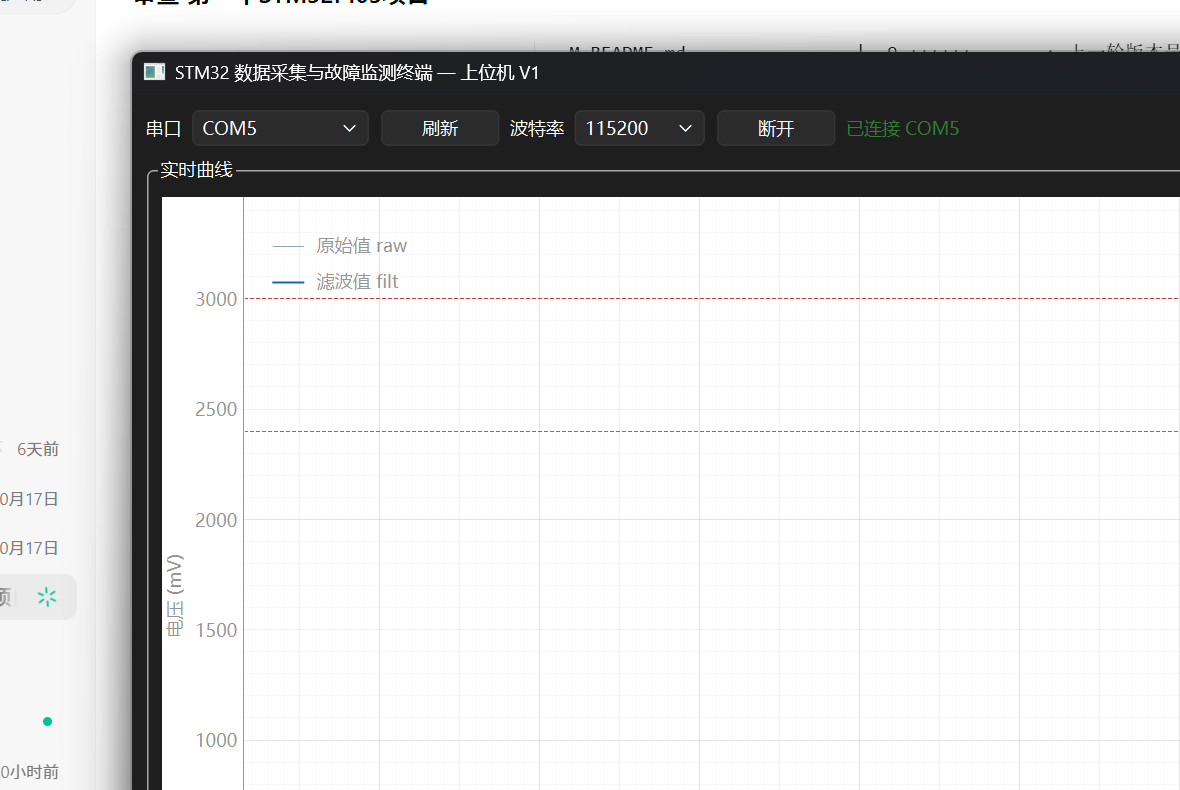
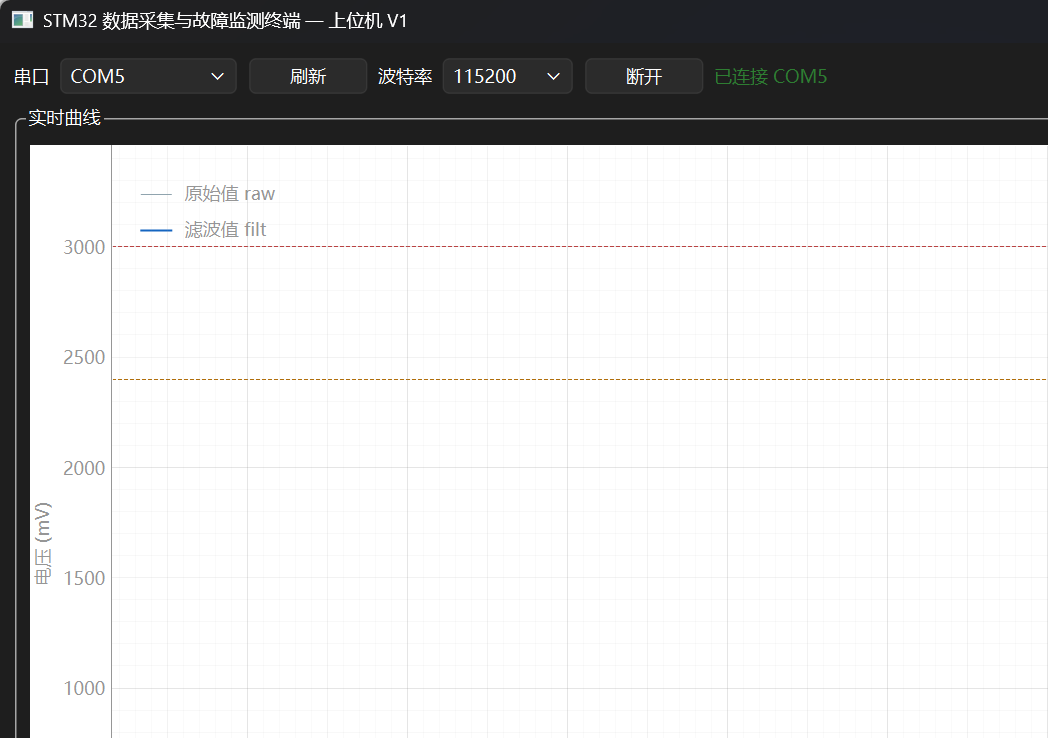
docs(stage8d): 归档 run_8d.py（脱敏）并纠正截图证据——仅 5 张可用
- 新增 docs/stage8d/run_8d.py：仅把路径解析块改为 STAGE8D_PROJ/STAGE8D_OUT + 相对本文件，逻辑/时间轴/延时逐行未改（原件 153 行 4,976 B SHA 500c6825…，归档版 164 行 5,678 B）

- 截图纠正：ImageGrab 用逻辑坐标当物理像素，125% DPI 下抓偏；D-9/D-4/D-10/D-12 四张抓到前台其它窗口（含本机路径）-> 从仓库移除，原件留仓库外；D-1/D-3/D-6/D-7/D-8 裁剪到窗口内（去除左侧/上方其它软件）后归档

- 文档同步：STAGE8D_EVIDENCE §1/§3/§4/§5/§6/§6.3/§7 改写为'5 张可用截图'，并规定对外不得写'每步一张/9 张截图'；README 目录树与 TEST_INVENTORY R21 同步

Changed region(s): [[0.0, 0.0, 1.0, 1.0]]

diff --git a/docs/stage8d/run_8d.py b/docs/stage8d/run_8d.py
@@ -1,0 +1,164 @@
+# -*- coding: utf-8 -*-
+"""8D 自动执行：用 QtTest 合成鼠标事件驱动真实 GUI 窗口 + 真实串口，
+每一步截图并记录界面/日志状态。物理动作（拧电位器）用 flag 文件做人工握手。
+
+不是人手点击：走的是完整控件事件链（press/release → toggled/clicked → 同一槽函数），
+证据等级按"GUI 控件自动化 + 人手拧电位器 + 真机"记录，不写成"人工点击"。
+
+【归档版说明】本文件为 2026-11-05 实际运行脚本的脱敏副本：
+  - 仅把文件头部的路径解析块由硬编码绝对路径改为「相对本文件 + 环境变量」；
+  - 其余逻辑、时间轴、延时、点击顺序、日志文本与时序完全未改（逐行比对见 STAGE8D_EVIDENCE.md §6.2）；
+  - 原件（未脱敏）保留在仓库外，SHA-256 见 §6.2。
+运行方式（需先把仓库根目录设为工程目录）：
+  set STAGE8D_PROJ=<项目目录>
+  set STAGE8D_OUT=<输出目录，默认本文件同级的 _run>
+  python docs\\stage8d\\run_8d.py
+"""
+import os
+import sys
+import time
+
+from PySide6.QtCore import Qt, QTimer
+from PySide6.QtTest import QTest
+from PySide6.QtWidgets import QApplication
+
+HERE = os.path.dirname(os.path.abspath(__file__))
+PROJ = os.environ.get("STAGE8D_PROJ", os.path.abspath(os.path.join(HERE, "..", "..")))
+HOST = os.path.join(PROJ, "host")
+sys.path.insert(0, HOST)
+import main as gui  # noqa: E402
+
+OUT = os.environ.get("STAGE8D_OUT", os.path.join(HERE, "_run"))
+SHOTS = os.path.join(OUT, "shots")
+os.makedirs(SHOTS, exist_ok=True)
+REPORT = os.path.join(OUT, "report.txt")
+GO1 = os.path.join(OUT, "go1.flag")
+GO2 = os.path.join(OUT, "go2.flag")
+for f in (GO1, GO2, REPORT):
+    if os.path.exists(f):
+        os.remove(f)
+
+app = QApplication(sys.argv)
+gui.apply_cjk_font(app)
+win = gui.MainWindow(demo=False)
+win.show()
+win.raise_()
+win.activateWindow()
+
+
+def log(text):
+    with open(REPORT, "a", encoding="utf-8") as f:
+        f.write(text + "\n")
+    print(text, flush=True)
+
+
+def shot(tag):
+    from PIL import ImageGrab
+    g = win.frameGeometry()
+    img = ImageGrab.grab(bbox=(g.x(), g.y(), g.x() + g.width(), g.y() + g.height()))
+    p = os.path.join(SHOTS, tag + ".png")
+    img.save(p)
+    return p
+
+
+def snap(tag):
+    log("\n===== %s   %s =====" % (tag, time.strftime("%H:%M:%S")))
+    log("[pix]        %s" % shot(tag))
+    log("[conn]       %s" % win.lbl_conn.text())
+    log("[level]      %s" % win.lbl_level.text())
+    log("[fault]      %s   last=%s" % (win.lbl_fault.text(), win.lbl_fault_last.text()))
+    log("[diag_chk]   %s" % win.chk_diag.isChecked())
+    log("[table_rows] %d" % win.table.rowCount())
+    log("[samples]    %s   drops=%s   errs=%s   gaps=%s   fgaps=%s" % (
+        win.lbl_samples.text(), win.lbl_drops.text(), win.lbl_errs.text(),
+        win.lbl_gaps.text(), win.lbl_frame_gaps.text()))
+    tail = win.log.toPlainText().splitlines()[-10:]
+    log("[log_tail]")
+    for line in tail:
+        log("    " + line)
+
+
+def pick_port():
+    for i in range(win.cb_port.count()):
+        if "COM5" in win.cb_port.itemText(i):
+            win.cb_port.setCurrentIndex(i)
+            log("[port] 选择 %s" % win.cb_port.itemText(i))
+            return True
+    log("[port] 未找到 COM5！")
+    return False
+
+
+def click(widget, name):
+    QTest.mouseClick(widget, Qt.LeftButton)
+    log(">> 点击 %s" % name)
+
+
+def wait_flag(path, hint, then):
+    log("\n>>> 等待人工动作：%s" % hint)
+    log(">>> 完成后请让执行代理创建 %s" % path)
+
+    def poll():
+        if os.path.exists(path):
+            log(">>> 收到人工完成信号，继续")
+            QTimer.singleShot(1200, then)
+        else:
+            QTimer.singleShot(500, poll)
+
+    QTimer.singleShot(500, poll)
+
+
+def pause1():
+    wait_flag(GO1, "把电位器拧动使得故障恢复（界面转“无”），再停手",
+              after_pot_recover)
+
+
+def after_pot_recover():
+    QTimer.singleShot(3000, lambda: snap("06_D9_recover"))
+    QTimer.singleShot(9000, lambda: snap("07_D4_confirm_after_idle"))
+    QTimer.singleShot(10500, do_disconnect)
+
+
+def do_disconnect():
+    click(win.btn_connect, "断开")
+    QTimer.singleShot(2500, lambda: snap("08_D10_disconnected"))
+    QTimer.singleShot(3500, pause2)
+
+
+def pause2():
+    wait_flag(GO2, "断线期间把电位器拧到另一个位置（制造变化）", after_pot_disconnected)
+
+
+def after_pot_disconnected():
+    click(win.btn_connect, "连接（重连）")
+    QTimer.singleShot(5000, lambda: snap("09_D12_reconnected"))
+    QTimer.singleShot(7000, finish)
+
+
+def finish():
+    log("\n===== 全程日志（GUI 文本通道）=====")
+    for line in win.log.toPlainText().splitlines():
+        log("    " + line)
+    log("\n===== 结束 =====")
+    QTimer.singleShot(500, app.quit)
+
+
+# ---------------- 时间轴 ----------------
+def start():
+    if not pick_port():
+        app.quit()
+        return
+    click(win.btn_connect, "连接")
+    QTimer.singleShot(4000, lambda: snap("01_D1_connected"))
+    QTimer.singleShot(4500, lambda: click(win.chk_diag, "使能诊断（勾选）"))
+    QTimer.singleShot(7000, lambda: snap("02_D3_enabled"))
+    QTimer.singleShot(7500, lambda: click(win.chk_diag, "取消使能（取消勾选）"))
+    QTimer.singleShot(10000, lambda: snap("03_D6_disabled"))
+    QTimer.singleShot(10500, lambda: click(win.btn_get_diag, "查询故障状态"))
+    QTimer.singleShot(13000, lambda: snap("04_D7_query_while_disabled"))
+    QTimer.singleShot(13500, lambda: click(win.chk_diag, "重新使能（勾选）"))
+    QTimer.singleShot(16500, lambda: snap("05_D8_reenabled"))
+    QTimer.singleShot(17500, pause1)
+
+
+QTimer.singleShot(800, start)
+app.exec()

diff --git a/docs/STAGE8D_EVIDENCE.md b/docs/STAGE8D_EVIDENCE.md
@@ -18,7 +18,7 @@
 | **电位器类操作**（D-9 / D-11，含 D-4 的"停手"） | **用户本人手动拧 / 松手**，执行代理不接触硬件。物理量变化是真实输入，不是模拟数据 |
 | 人机配合 | 脚本跑到需要物理动作的步骤时**停下来轮询**（`run_8d.py:85-96`，每 500 ms 查一次标志文件，**无超时**），控制台打印 `>>> 等待人工动作：…`；用户拧完回话后，执行代理创建 `go1.flag` / `go2.flag` 放行 |
 | 串口 | 真实 COM5，真实固件 `Code=22468`，中途真实断开与重连 |
-| 截图 | 脚本用 `PIL.ImageGrab` 抓窗口区域（`win.frameGeometry()`），每步一张 |
+| 截图 | 脚本用 `PIL.ImageGrab` 抓 `win.frameGeometry()` 区域。**实测有缺陷**：DPI 缩放导致抓取坐标与窗口实际位置不一致，抓到的画面里窗口会偏移、四周带出前台其它窗口；**只有 D-1/D-3/D-6/D-7/D-8 五步抓到可用的纯 GUI 画面**（已裁掉四周并归档），D-9/D-4/D-10/D-12 四步的抓图无效（见 §6.3），这四步的界面证据改用 GUI 文本通道日志 |
 | **不包含** | **人手点击按钮**、**人手拔插 USB**（D-10 用界面"断开"按钮）；**手势/触屏命中** |
 
 因此证据等级写作 **"GUI 控件自动化 + 人手拧电位器 + 真机"**：能证明"控件事件 → 上位机逻辑 → 串口 → 固件"整条链路，
@@ -37,7 +37,7 @@
 输入：电位器，静置约 942 mV（NORMAL 区中部）
 ```
 
-## 3. 逐步记录（每步 1 张截图 + 对应日志行）
+## 3. 逐步记录（截图 + 对应日志行；截图为 0 或 1 张/步，仅 5 步可用，见 §6.3）
 
 ### 3.0 人机分工与时间轴（先看这张，才知道哪一步是谁做的）
 
@@ -67,11 +67,11 @@
 | **D-6** | 故障仍 ACTIVE 时**取消勾选** | 脚本点击 | 面板转 `未使能`；故障不清零 | `03_D6_disabled.png` | `故障诊断：关闭（等 ACK 确认）` → `应答 SET_DIAG -> OK` |
 | **D-7** | 关闭态点「查询故障状态」 | 脚本点击 | 快照返回 `STUCK`；**事件表仍 0 行** | `04_D7_query_while_disabled.png` | `查询故障状态` → `应答 GET_DIAG -> OK` → `状态同步：当前故障 STUCK（t=1934883ms）` |
 | **D-8** | 重新勾选「使能诊断」 | 脚本点击 | 状态仍 ACTIVE；**无新确认上报** | `05_D8_reenabled.png` | `应答 SET_DIAG -> OK`；此后 1 min 内无"故障确认"行，直到 D-9 拧动 |
-| **D-9** | 拧动电位器使故障恢复 | **人手（用户本人）**；脚本轮询 `go1.flag` 等待 | 恢复事件；面板转 `无` | `06_D9_recover.png`（见备注） | `故障恢复：STUCK 卡死（t=1991401ms，span=3048mV，当前故障：无）` |
-| **D-4** | 停手静置 | **人手停手（用户本人）** + 脚本静置 **6 s** 后抓图 | 新确认事件；事件表 **0 → 4 行** | `07_D4_confirm_after_idle.png` | `故障确认：STUCK 卡死（t=1995441ms，span=5mV）`、`（t=2014631ms，span=12mV）` |
-| **D-10** | 点「断开」 | 脚本点击 | `已断开 COM5`；曲线停；**未崩溃** | `08_D10_disconnected.png` | `断开：已断开 COM5（界面数据保留，重连后可继续）` |
+| **D-9** | 拧动电位器使故障恢复 | **人手（用户本人）**；脚本轮询 `go1.flag` 等待 | 恢复事件；面板转 `无` | `—`（抓图无效，见 §6.3；状态靠日志行） | `故障恢复：STUCK 卡死（t=1991401ms，span=3048mV，当前故障：无）` |
+| **D-4** | 停手静置 | **人手停手（用户本人）** + 脚本静置 **6 s** 后抓图 | 新确认事件；事件表 **0 → 4 行** | `—`（抓图无效，见 §6.3；事件表行数靠日志） | `故障确认：STUCK 卡死（t=1995441ms，span=5mV）`、`（t=2014631ms，span=12mV）` |
+| **D-10** | 点「断开」 | 脚本点击 | `已断开 COM5`；曲线停；**未崩溃** | `—`（抓图无效，见 §6.3；断开状态靠日志行） | `断开：已断开 COM5（界面数据保留，重连后可继续）` |
 | **D-11** | 断线期间拧电位器 | **人手（用户本人）**；脚本轮询 `go2.flag` 等待 | 无界面报错（断线中） | —（断线无画面） | 无（断开期间不上报）；**拧动时长与停止位置未记录**，断线窗口约 108 s |
-| **D-12** | 点「连接」重连 | 脚本点击 | **自动 GET_DIAG**；面板按快照更新 | `09_D12_reconnected.png` | `已连接 COM5` → `查询故障状态（连接后自动）` → `应答 GET_DIAG -> OK` → `状态同步：当前故障 STUCK（t=2115838ms）` |
+| **D-12** | 点「连接」重连 | 脚本点击 | **自动 GET_DIAG**；面板按快照更新 | `—`（抓图无效，见 §6.3；自动查询靠日志行） | `已连接 COM5` → `查询故障状态（连接后自动）` → `应答 GET_DIAG -> OK` → `状态同步：当前故障 STUCK（t=2115838ms）` |
 
 **备注（D-9 / D-4 的顺序）**：设备起点已是 ACTIVE（`conf` 早已为 1），无法产生"新的一次确认"。
 因此把 D-4 排在 D-9 之后：先由用户拧出 CLEAR 态，再静置 → 才产生**新的**确认事件。
@@ -87,7 +87,7 @@
 | **P-3** ACK 先于快照 | **满足** | 每次顺序均为 `查询…` → `应答 GET_DIAG -> OK` → `状态同步…` |
 | **P-4** 关闭诊断不清故障 | **满足** | D-6 关闭后，D-7 查询仍返回 `STUCK`（`active=1` 驻留） |
 | **P-5** 重新使能不重复上报 | **满足** | D-8 的 `SET_DIAG OK` 之后无立即"确认"；直到 D-9 拧动才产生 |
-| **P-6** 恢复后显示清除 | **部分满足（仅 D-9）** | D-9 有 `故障恢复 … 当前故障：无` 的日志行（`t=1991401 ms`、`span=3048 mV`），**但两处未证**：① 截图抓在随后再确认之后，转"无"的瞬态未入画；② **重连快照 `active=0` 的分支未造出**（D-12 快照仍是 `STUCK`） |
+| **P-6** 恢复后显示清除 | **部分满足（仅 D-9）** | D-9 有 `故障恢复 … 当前故障：无` 的日志行（`t=1991401 ms`、`span=3048 mV`），**但两处未证**：① 该步抓图无效（§6.3），转"无"的瞬态**没有截图**；② **重连快照 `active=0` 的分支未造出**（D-12 快照仍是 `STUCK`） |
 | **P-7** 断线重连 | **满足** | 断开 → 重连 → 自动查询 → 快照；全程无异常弹窗、无崩溃、进程 exit 0 |
 | **P-8** 采样不受影响 | **部分满足** | 6 s 窗口 `10933−10333 = 600` 帧 → **100.0 Hz**（分辨率 ±0.2 Hz）；全程 `drops=0`、`errs=0/0/0`、累计 13512 帧 |
 
@@ -108,25 +108,28 @@
 3. **P-8 是短窗口**：6 s / 600 帧，只能说明"这段时间 100.0 Hz"，不等于全程速率。
 4. **D-13 已移出真机范围**（坏 CRC / 未知帧类型），不计入 R21 关闭条件（`STAGE8_PLAN.md` §6.7）。
 5. 本轮**未**验证：高分屏/触屏命中、按钮禁用态、串口被抢占时的界面行为。
+6. **截图只有 5 张可用**（D-1/D-3/D-6/D-7/D-8），**不是 9 张**：`shot()` 用逻辑坐标当物理像素，
+   125% DPI 下抓偏，D-9/D-4/D-10/D-12 四张抓到的是前台其它窗口（含本机路径），已从仓库移除（原件在仓库外）。
+   这四步的界面状态**只能靠日志行**，不能写"有截图证明界面转绿/已断开"。
 
 ## 6. 证据清单
 
 ```
 docs/stage8d/
-  STAGE8D_LOG.txt                 9,095 B  SHA-256 b4ff25de…dcf8f（脱敏后，见下）
-  01_D1_connected.png            39,767 B
-  02_D3_enabled.png              39,822 B
-  03_D6_disabled.png             39,798 B
-  04_D7_query_while_disabled.png 39,797 B
-  05_D8_reenabled.png            39,692 B
-  06_D9_recover.png             196,170 B
-  07_D4_confirm_after_idle.png  108,266 B
-  08_D10_disconnected.png        89,778 B
-  09_D12_reconnected.png         52,537 B
+  STAGE8D_LOG.txt                 9,095 B  SHA-256 b4ff25de…dcf8f（脱敏后，见 §6.1）
+  run_8d.py                       5,678 B  归档脚本（脱敏版，见 §6.2）
+  01_D1_connected.png            26,351 B  ┐
+  02_D3_enabled.png              26,374 B  │ 5 张可用 GUI 截图，
+  03_D6_disabled.png             26,351 B  │ 已裁掉窗口外区域（见 §6.3）
+  04_D7_query_while_disabled.png 26,362 B  │
+  05_D8_reenabled.png            26,230 B  ┘
 ```
 
 `STAGE8D_LOG.txt` 是步骤级记录（每步的 `[conn]/[fault]/[diag_chk]/[table_rows]/[samples]` 与日志尾），
 文末附**全程 GUI 文本通道日志**，可直接检索 `故障确认 / 故障恢复 / 应答 GET_DIAG`。
+
+**只有 5 张 GUI 截图，不是 9 张**——D-9 / D-4 / D-10 / D-12 四步的抓图无效（原因见 §6.3），
+这四步的界面状态以 `STAGE8D_LOG.txt` 的日志行 + 设备侧读数为证。原 9 张未处理截图保留在仓库外。
 
 ### 6.1 脱敏说明（`STAGE8D_LOG.txt`）
 
@@ -141,18 +144,58 @@ docs/stage8d/
 可复算性：按上表规则把 `<工作目录>` 还原成原前缀（11 处），即可逐字节复原 9,425 B / `e7862992…c34c79`
 的那份文件——仓库外的 `_8d/report.txt` 就是原件，可用于交叉验证。**除该前缀外没有任何字符被改动。**
 
+### 6.2 归档脚本 `run_8d.py`（脱敏版）
+
+| 项 | 值 |
+|---|---|
[2 lines of base64/hex data omitted]
+| 改动 1（路径） | `HOST = r"C:\Users\<用户>\Desktop\<项目>\host"` → `PROJ`（环境变量 `STAGE8D_PROJ`，默认本文件上两级）+ `os.path.join(PROJ, "host")` |
+| 改动 2（路径） | `OUT = r"C:\Users\<用户>\...\_8d"` → 环境变量 `STAGE8D_OUT`，默认本文件同级 `_run` |
+| 改动 3（仅注释） | 文件头补「归档版说明」与运行方式；docstring 里 `真串口 COM5` → `真串口`，证据等级描述同步为"控件自动化 + 人手拧电位器 + 真机" |
+| **未改动** | **全部逻辑**：`click()` 用 `QTest.mouseClick`、`wait_flag()` 500 ms 轮询、时间轴 `4000/4500/7000/7500/10000/10500/13000/13500/16500/17500` ms、`after_pot_recover` 的 `3000/9000/10500`、`do_disconnect` 的 `2500/3500`、`after_pot_disconnected` 的 `5000/7000`、截图 tag 名与日志文本 |
+
+核对方式：`difflib.unified_diff(原件, 归档版)` 只有 3 处 hunk（docstring 两段 + 路径两行），
+上表已逐项列出；除路径解析外**没有第二处行为差异**。
+
+### 6.3 截图的有效性与裁剪（重要）
+
+**脚本缺陷**：`ImageGrab.grab(bbox=win.frameGeometry())` 把 Qt 逻辑坐标直接当成物理像素用，
+在 125% DPI 缩放下抓取区域与窗口实际位置错位，抓到的画面里窗口会整体偏移、四周带出**前台其它窗口**
+（含当时的对话窗口，其文字里有本机绝对路径）。
+
+逐张实测结论：
+
+| tag | 实际内容 | 处置 |
+|---|---|---|
+| `01` `02` `03` `04` `05` | **纯 GUI 窗口**，但左侧约 132 px、上方约 52 px 是别的窗口 | **裁剪到窗口内**（`(132,52,1180,790)`）后归档；裁剪后无任何外部界面、无路径、无用户名 |
+| `06_D9_recover` | **完全是对话窗口**，画面里没有 GUI | **不归档**（无证据价值，且含本机路径） |
+| `07_D4_confirm_after_idle` | GUI 只露出右半（窗口偏到 x≈318），左半是对话窗口 + 路径 | **不归档** |
+| `08_D10_disconnected` | GUI 在下半部、上方是对话窗口；左侧还有文件列表 | **不归档** |
+| `09_D12_reconnected` | 同类混合画面 | **不归档** |
+
+因此：
+- 仓库内 **5 张截图**（D-1/D-3/D-6/D-7/D-8）是"裁剪后的纯 GUI 画面"，可对外；
+- **D-9/D-4/D-10/D-12 没有可用界面截图**，只用日志行与设备读数作证——这不改变 P-6/P-7 的判定依据，
+  但**任何地方都不得再写"每步一张截图"或"9 张截图"**；
+- 9 张原件 + 未脱敏 `report.txt` **全部留在仓库外**，需要时按 §7 重跑补拍（并先修 `shot()`
+  的 DPI 换算：用 `devicePixelRatio` 缩放 bbox，或在截图前 `win.activateWindow()` + 校验画面）。
+
 ## 7. 复现
 
-脚本：`<工作目录>\_8d\run_8d.py`（仓库外，避免污染工程；本文件与 `stage8d/STAGE8D_LOG.txt` 均已脱敏，
-本机绝对路径前缀替换为 `<工作目录>`，见 §6 脱敏说明）。
+脚本：**`docs/stage8d/run_8d.py`（归档脱敏版，见 §6.2）**；原件在仓库外。
+运行时先设 `STAGE8D_PROJ=<项目目录>`、`STAGE8D_OUT=<输出目录>`（默认写到脚本同级 `_run/`，不会污染仓库）。
 流程为固定时间轴 + 两个人工握手点（文件 `go1.flag` / `go2.flag`），因为 D-9 / D-11 必须由人手拧电位器：
 
 ```
-wait_flag()  run_8d.py:85-96   每 500 ms 轮询标志文件，无超时（可无限等）
+wait_flag()  run_8d.py 内 wait_flag()   每 500 ms 轮询标志文件，无超时（可无限等）
 收到 go1     +1.2 s 起算 → +3 s 抓 06_D9_recover → +9 s 抓 07_D4（静置 6 s）→ +10.5 s 点断开
 收到 go2     +1.2 s → 09_D12 重连
 ```
 
 重跑前需确认：COM5 在位、`en` 状态、输入保持静置。
-**下一轮改进（写在这里免忘）**：D-9 / D-11 由用户拧动时，请用户报一次起止时刻与停止电压（或截图万用表/上位机读数），
-不再出现"时长与位置未记录"；D-12 的补强场景按 §5 第 2 条设计（CLEAR 后 2–3 s 内立刻重连）。
+**下一轮必须改的两处（写在这里免忘）**：
+1. **修 `shot()` 的 DPI 换算**——用 `devicePixelRatio()` 缩放 bbox（或改用 `win.grab()` 直接抓控件），
+   并在截图后校验"画面里确实是本 GUI"；否则仍会出现本轮 4 张抓错窗口的情况（§6.3）。
+2. D-9 / D-11 由用户拧动时，请用户报一次起止时刻与停止电压，不再出现"时长与位置未记录"；
+   D-12 的补强场景按 §5 第 2 条设计（CLEAR 后 2–3 s 内立刻重连）。

diff --git a/docs/TEST_INVENTORY.md b/docs/TEST_INVENTORY.md
@@ -193,7 +193,7 @@ C 类再细分三档，强度递减：
 | **R18** | **Stage 7C-2：队列检查与写入的并发** | 低 | **代码审查通过**：`ACK`（`app_cmd_poll`）与 `FAULT`（`app_fault_service`）都在主循环顺序执行，**无 ISR 入队生产者**；`s_busy` 与 DMA 完成回调的竞争是既有设计，本轮未改动。**Stage 8 决策：保持代码审查证据，不升级为板级验证**（8A 灌满也不能证明该窗口） | 若将来把入队移进中断，"检查成功但写入失败"会重新出现 | 保持"入队只在主循环"这条约束；若破例，`reported` 的拉平必须改为以 `app_tx_write()` 返回值为准 |
 | **R19** | **真实传感器诊断（断线 / 探头失效）** | 中 | **NOT TESTED**。手上只有电位器；"卡死"在电气上等价于"电位器不动"，但**不能声称验证了传感器失效** | 真实传感器失效可能不被 `STUCK` 检出（例如漂移到轨、周期性抖动） | 接真实传感器（或可编程信号源）后按 `STAGE7_FAULT_DIAG_DESIGN.md` §8 复测 |
 | **R20** | **诊断 1h / 8h 长期运行** | 中 | **1h：先 FAIL 后 PASS，两次都要列**——① 2026-11-04 11:24 诊断开 1h **FAIL**（缺口 45/整帧 45/解析 30，原因未分离）；② 2026-11-04 19:23 X2 诊断开 1h **PASS**（缺口/整帧/解析/BOOT/重连全 0；`conf` 1→1 增量 0、`mask=rep=1`、`span` 12→12；`STAGE8B_ENV.txt` §十六）。**8h（诊断开 en=1）仍未做**：① ② 都是 1h，**不得把 1h PASS 等同于 8h PASS**，也不得据此关闭本项。**旁证（不构成本项判定）**：2026-11-04 23:28 起同构建 `Code=22468` 跑过 **480 min 诊断关（en=0）全 PASS**（`SOAK_480MIN_RECORD.md`、`STAGE8B_REPORT` §8），只能说明"该构建 8 h 无复位、无丢帧"，**不能替代诊断开启的 8 h**。**8B-3 曾启动即中止**：2026-11-05 **16:16:49 启动**（约 16:17 起跑）、**16:21 主动中止**（用户当晚要用主机，改到睡眠时段重跑），运行 4 min 20 s / 4 条打点，**无有效结果**——不记 PASS/FAIL、**不计入本项**、不核算 H1–H12；残留证据 `docs/SOAK_480MIN_20261105_ABORTED_1617.txt`（689 B，`6029388e…66af9`）与 `docs/STAGE8B3_START.txt`（含 §七 中止记录），**今晚按现状重新取 T0 起跑（不 reset，`en=1` 保持不变）** | 第一次 FAIL 的归因仍未定论；1h 通过只覆盖 1h 尺度；8h 只在**关闭态**跑过 | 按 `STAGE8_PLAN.md` §4 跑 **en=1 的 8 h**，要求同判据全 0 |
-| **R21** | **GUI 按钮连接真实开发板** | 低 | **通过（GUI 控件自动化 + 人手拧电位器 + 真机，2026-11-05 16:26:24–16:30:01，COM5/1-2.1.3，`Code=22468`）**：D-1~D-12 全部执行；**P-1~P-5、P-7 满足**，**P-6 仅 D-9 部分满足**（重连快照 `active=0` 分支未造出），**P-8 在 6 s 窗口满足**（`10933−10333 = 600` 帧 → 100.0 Hz，分辨率 ±0.2 Hz；全程 `drops=0`、`errs=0/0/0`、累计 13512 帧）。证据：9 张窗口截图 + GUI 文本通道日志，见 `docs/STAGE8D_EVIDENCE.md` 与 `docs/stage8d/`。另有一次**人工点击**（16:11–16:13，设备侧 `en=1 / conf=1 / cmd 0→3`）作为互补证据。**操作归属（逐步）**：D-1 连接、D-3 使能、D-6 取消使能、D-7 查询、D-8 重新使能、D-10 断开、D-12 重连 = **脚本 `QTest.mouseClick` 合成点击**；**D-9 拧电位器、D-11 断线期间拧电位器由用户本人手动完成**，D-4 的"停手静置"同样是**人手松手**（脚本只负责静置 6 s 后抓图）。**配合方式**：脚本跑到 D-9、D-11 前打印 `>>> 等待人工动作：…` 并**每 500 ms 轮询** `go1.flag` / `go2.flag`（**无超时**），用户拧完回话后由执行代理置标志放行；D-11 断线窗口约 **108 s**（16:28:13–16:30:01），其中**实际拧动时长与停止位置未记录** | **按钮不是人手点的**——控件由 `QtTest.mouseClick` 合成鼠标事件驱动（走完整 press/release → 槽函数，真串口真固件），对外只能写"GUI 控件自动化"；**D-11 拧动时长与停止位置未记录**（仅能由重连快照 `STUCK t=2115838ms` 推断松手后仍落在卡死判定区）；**D-12 判别力偏弱（OPEN）**：正因 D-11 拧完就停手、输入仍在卡死区，设备在断线期间又自行确认了一次，重连前后都是 `STUCK`，**未造出"本地旧状态 ≠ 设备快照"的对比**；P-8 仅 6 s 窗口；D-13 已移出真机范围 | 如需补强：断线期间**持续**拧动 ≥3 s 让故障进入 CLEAR，**2–3 s 内立刻重连**（趁设备尚未重新确认），并记录拧动起止时刻与停止电压；另可补高分屏/触屏命中、按钮禁用态 |
+| **R21** | **GUI 按钮连接真实开发板** | 低 | **通过（GUI 控件自动化 + 人手拧电位器 + 真机，2026-11-05 16:26:24–16:30:01，COM5/1-2.1.3，`Code=22468`）**：D-1~D-12 全部执行；**P-1~P-5、P-7 满足**，**P-6 仅 D-9 部分满足**（重连快照 `active=0` 分支未造出），**P-8 在 6 s 窗口满足**（`10933−10333 = 600` 帧 → 100.0 Hz，分辨率 ±0.2 Hz；全程 `drops=0`、`errs=0/0/0`、累计 13512 帧）。证据：**5 张可用 GUI 截图**（D-1/D-3/D-6/D-7/D-8，已裁掉窗口外区域）+ GUI 文本通道日志（D-9/D-4/D-10/D-12 的抓图因 DPI 错位抓到前台其它窗口，**未归档**，这四步以日志行 + 设备读数为证），见 `docs/STAGE8D_EVIDENCE.md` §6 与 `docs/stage8d/`。另有一次**人工点击**（16:11–16:13，设备侧 `en=1 / conf=1 / cmd 0→3`）作为互补证据。**操作归属（逐步）**：D-1 连接、D-3 使能、D-6 取消使能、D-7 查询、D-8 重新使能、D-10 断开、D-12 重连 = **脚本 `QTest.mouseClick` 合成点击**；**D-9 拧电位器、D-11 断线期间拧电位器由用户本人手动完成**，D-4 的"停手静置"同样是**人手松手**（脚本只负责静置 6 s 后抓图）。**配合方式**：脚本跑到 D-9、D-11 前打印 `>>> 等待人工动作：…` 并**每 500 ms 轮询** `go1.flag` / `go2.flag`（**无超时**），用户拧完回话后由执行代理置标志放行；D-11 断线窗口约 **108 s**（16:28:13–16:30:01），其中**实际拧动时长与停止位置未记录** | **按钮不是人手点的**——控件由 `QtTest.mouseClick` 合成鼠标事件驱动（走完整 press/release → 槽函数，真串口真固件），对外只能写"GUI 控件自动化"；**D-11 拧动时长与停止位置未记录**（仅能由重连快照 `STUCK t=2115838ms` 推断松手后仍落在卡死判定区）；**D-12 判别力偏弱（OPEN）**：正因 D-11 拧完就停手、输入仍在卡死区，设备在断线期间又自行确认了一次，重连前后都是 `STUCK`，**未造出"本地旧状态 ≠ 设备快照"的对比**；P-8 仅 6 s 窗口；D-13 已移出真机范围 | 如需补强：断线期间**持续**拧动 ≥3 s 让故障进入 CLEAR，**2–3 s 内立刻重连**（趁设备尚未重新确认），并记录拧动起止时刻与停止电压；另可补高分屏/触屏命中、按钮禁用态 |
 
 > **H1 的口径（2026-11-04 统一）**：H1 = SAMPLE 帧数 / **标称 3600.0 s**。
 > 日志合计行打印的 `100.01 Hz` 不是按标称窗算的：`soak.py` 用的是宿主侧墙钟差值

diff --git a/README.md b/README.md
@@ -101,8 +101,8 @@ STM32F103C8T6 + HAL + Keil MDK。100Hz 定时器触发 ADC+DMA 采样 → 移动
     ├── STAGE8_PLAN.md                **Stage 8 收尾验证计划（R15/R16/R20/R21/R2）**
     ├── STAGE8B_REPORT.md             **Stage 8B 1h（Y2/X2）与 8h（8B-2）长跑报告 + 8B-2 一次 NTP 校时计数台阶分析**
     │                                 （该分析**只解释 8B-2 的台阶**，**不解释** 11-04 早期两轮丢帧；后者原因仍未定论）
-    ├── STAGE8D_EVIDENCE.md           **Stage 8D / R21：GUI 按钮连真板证据（D-1~D-12 + P-1~P-8，9 张截图）**
-    ├── stage8d/                      8D 原始证据：`STAGE8D_LOG.txt`（含 GUI 文本通道全程日志）+ 9 张窗口截图
+    ├── STAGE8D_EVIDENCE.md           **Stage 8D / R21：GUI 按钮连真板证据（D-1~D-12 + P-1~P-8；5 张可用 GUI 截图，D-9/D-4/D-10/D-12 以日志为证）**
+    ├── stage8d/                      8D 原始证据：`STAGE8D_LOG.txt`（含 GUI 文本通道全程日志）+ 5 张裁剪后的 GUI 截图 + 归档脚本 `run_8d.py`（脱敏）
     └── STAGE1–4 阶段报告与原始日志（STAGE1_ADC_RECOVERY / STAGE2_ADC_LINEARITY /
         STAGE3_UART_DMA / STAGE3_GUARD / STAGE4_C_UNIT_TESTS + *_RAW.txt）
 ```
